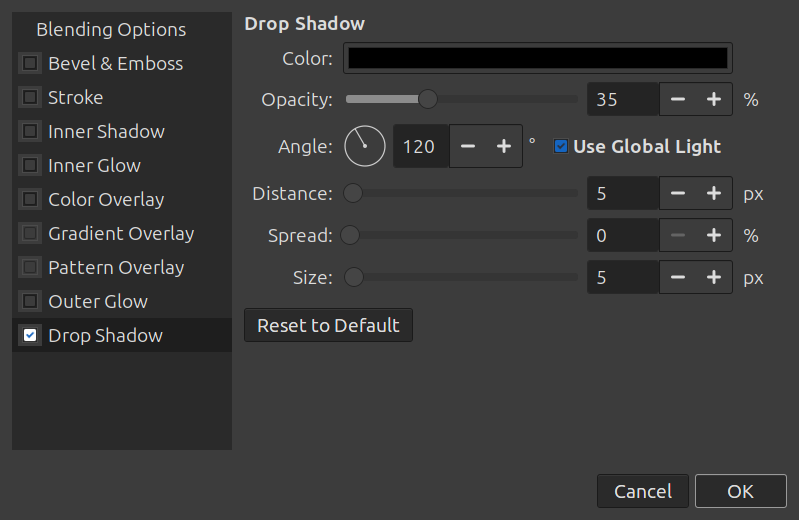
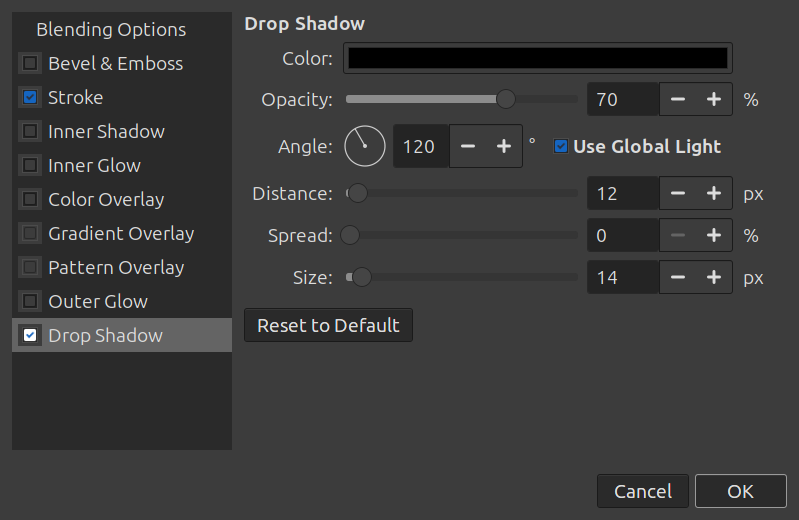
Regression test, screenshots and README for the Layer Style fix
- scripts/smoke runs tests/smoke_layer_style.py inside GIMPhoto: a stroke
  on an opaque layer without alpha must draw outside it (fails on the
  previous engine, passes now)
- README: GIMPhoto described as a GIMP fork focused on Photoshop-style
  tools and interface (like Mint and Ubuntu); the fx button shown in use
  with its menu open, and the Layer Style dialog
- feature page: same screenshots, layers without transparency explained

diff --git a/tests/smoke_layer_style.py b/tests/smoke_layer_style.py
@@ -1,0 +1,36 @@
+# Run by scripts/smoke inside the installed GIMPhoto (python-fu-eval):
+# Layer Style effects must draw outside an opaque layer that has no alpha
+# channel (regression: a layer from a JPEG or opaque PNG showed nothing).
+# Writes "ok" or a reason to the file in GIMPHOTO_SMOKE_OUT.
+import os
+import sys
+
+sys.path.insert(0, "/app/lib/gimp/3.0/plug-ins/layer-style")
+from gi.repository import Gegl, Gimp
+
+import layer_style_engine as E
+
+out = os.environ["GIMPHOTO_SMOKE_OUT"]
+img = Gimp.Image.new(300, 200, Gimp.ImageBaseType.RGB)
+bg = Gimp.Layer.new(img, "bg", 300, 200, Gimp.ImageType.RGB_IMAGE, 100, Gimp.LayerMode.NORMAL)
+img.insert_layer(bg, None, 0)
+Gimp.context_set_foreground(Gegl.Color.new("#ffffff"))
+bg.edit_fill(Gimp.FillType.FOREGROUND)
+layer = Gimp.Layer.new(img, "opaque", 100, 100, Gimp.ImageType.RGB_IMAGE, 100, Gimp.LayerMode.NORMAL)
+img.insert_layer(layer, None, 0)
+layer.set_offsets(100, 50)
+Gimp.context_set_foreground(Gegl.Color.new("#0000ff"))
+layer.edit_fill(Gimp.FillType.FOREGROUND)
+
+E.apply_style(layer, {"stroke": {**E.DEFAULTS["stroke"], "enabled": True, "size": 8, "color": "#ff0000"}})
+flat = img.duplicate()
+flat.flatten()
+# 4 px left of the layer: inside an 8 px outside stroke
+r, g, b, _a = flat.get_layers()[0].get_pixel(96, 100).get_rgba()
+if not layer.has_alpha():
+    result = "the layer still has no alpha channel"
+elif r > 0.8 and g < 0.2 and b < 0.2:
+    result = "ok"
+else:
+    result = f"no stroke outside the layer (pixel {r:.2f},{g:.2f},{b:.2f})"
+open(out, "w").write(result + "\n")

diff --git a/README.md b/README.md
@@ -1,13 +1,12 @@
 # GIMPhoto
 
-**A GIMP edition with Photoshop-style tools and interface**, built from
-GIMP's own source with a small series of changes on top, one feature at a
-time, and kept up to date with each official GIMP release.
+**GIMPhoto is a fork of GIMP focused on Photoshop-style tools and
+interface.** It is to GIMP what Linux Mint is to Ubuntu: the same program
+underneath, GIMP 3.2.6, kept up to date with every official GIMP release,
+with its own tools and interface on top for people who know Photoshop.
 
-> **Status: early.** GIMPhoto is GIMP 3.2.6 plus the features below, added
-> one at a time. Planned features are tracked as
-> [GitHub issues](../../issues) on the
-> [project board](https://github.com/users/diegochagas/projects/1).
+The features are tracked as [GitHub issues](../../issues) on the
+[project board](https://github.com/users/diegochagas/projects/1).
 
 ## Features
 
@@ -23,7 +22,15 @@ default theme, layout and shortcuts.
 
 ### Layer Style (fx) button
 
-![The fx button's menu in GIMPhoto's Layers panel](docs/images/fx-button-menu.png)
+The **fx** button at the bottom of the Layers panel, with its menu open, on a
+text layer with a stroke and a drop shadow:
+
+![GIMPhoto with the fx button's menu open in the Layers panel](docs/images/fx-button-in-use.png)
+
+Each entry opens the Layer Style dialog on that effect, previewing live on
+the canvas:
+
+![The Layer Style dialog](docs/images/fx-button-dialog.png)
 
 ## Why a patched build?
 

diff --git a/docs/features/layer-style-fx-button.md b/docs/features/layer-style-fx-button.md
@@ -20,7 +20,7 @@ menu, opening a Photoshop-style Layer Style dialog.
 2. Pick an effect: the Layer Style dialog opens on it, already ticked, and
    previews on the canvas while you change its settings.
 
-![The fx menu](../images/fx-button-menu.png)
+![GIMPhoto with the fx button's menu open](../images/fx-button-in-use.png)
 
 ![The Layer Style dialog opened from the fx menu](../images/fx-button-dialog.png)
 
@@ -54,6 +54,13 @@ with the settings they were made with. OK in the dialog is one undo step.
 **Plug-in** (`plugins/layer-style/`, installed by the build as a system
 plug-in): the Layer Style dialog and its renderer, from gimp-setup; see
 [plugins/README.md](../../plugins/README.md).
+
+## Layers without transparency
+
+A layer from a JPEG or an opaque PNG has no alpha channel, so a drop shadow,
+an outer glow or an outside stroke would have nowhere to paint. Like
+Photoshop, where every layer has transparency, the Layer Style adds an alpha
+channel to the layer first (*Layer → Transparency → Add Alpha Channel*).
 
 ## Limits
 
